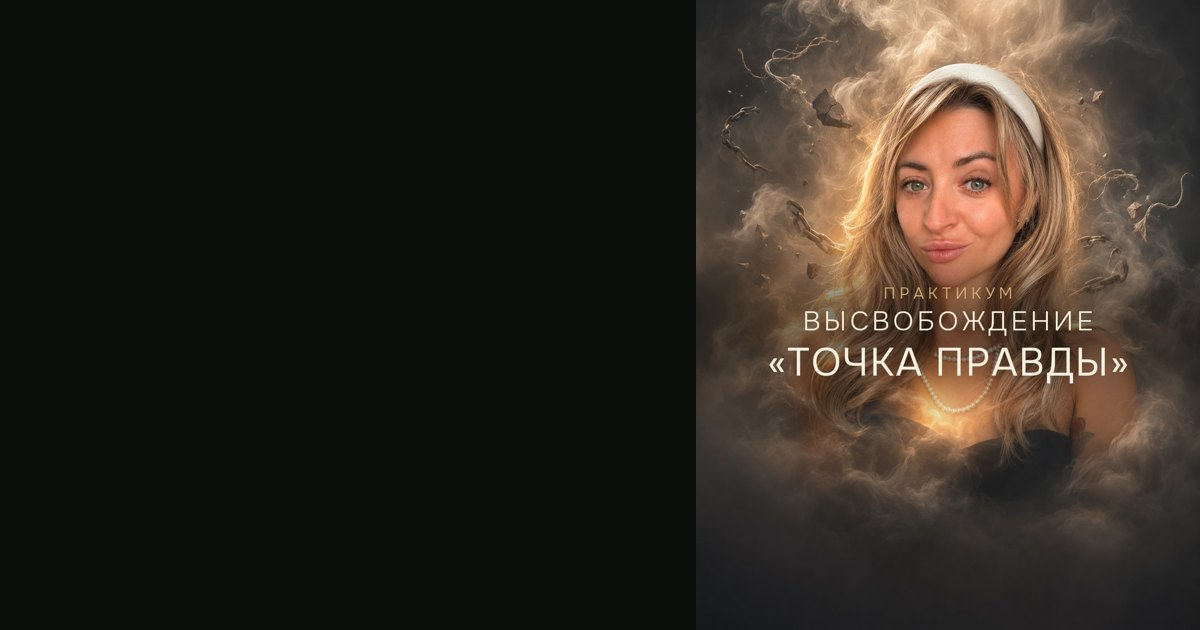
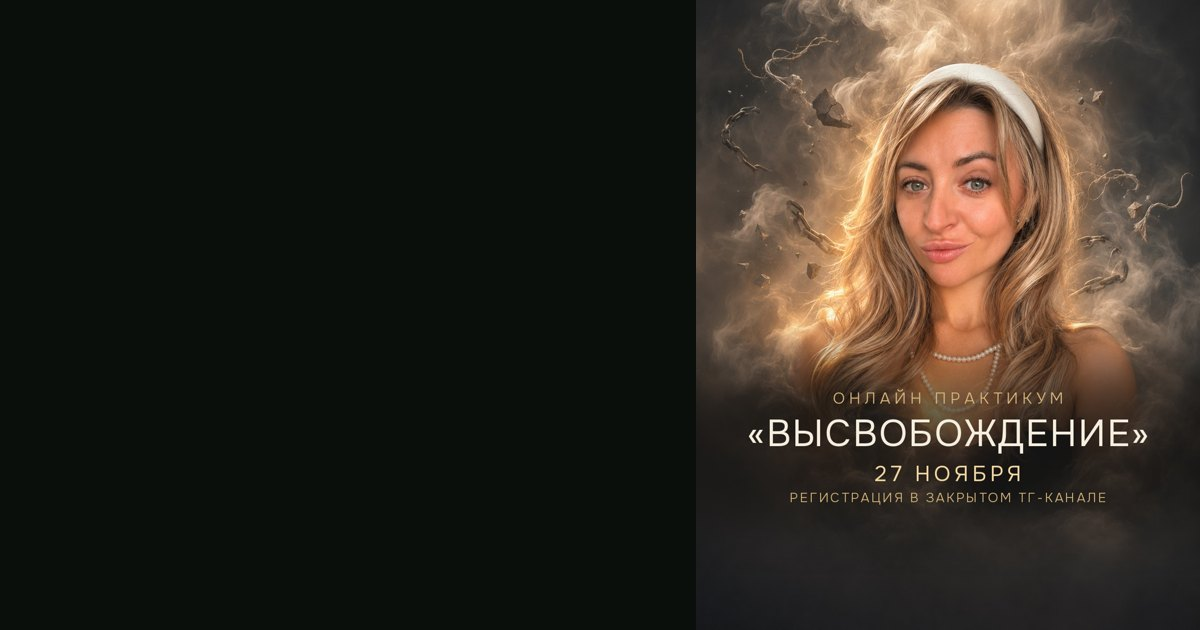
redeploy knowledge base 2026-11-19T12:23:27Z

Changed region(s): [[0.555, 0.3921, 1.0, 0.8444]]

diff --git a/tochka-pravdy/index.html b/tochka-pravdy/index.html
@@ -1,5 +1,5 @@
 <!doctype html>
-<html lang="ru"><head><meta charset="utf-8"><meta name="viewport" content="width=device-width,initial-scale=1"><title>Точка правды · онлайн практикум-высвобождение Екатерины Корягиной</title><meta name="description" content="Терапевтирующий онлайн практикум-высвобождение 19 ноября в Zoom за 990 ₽. Один день, чтобы увидеть и высвободить то, что ты носишь с собой годами излишним грузом."><link rel="canonical" href="https://katekoryagina.ru/tochka-pravdy/"><meta property="og:type" content="website"><meta property="og:url" content="https://katekoryagina.ru/tochka-pravdy/"><meta property="og:title" content="Точка правды · онлайн практикум-высвобождение Екатерины Корягиной"><meta property="og:description" content="Терапевтирующий онлайн практикум-высвобождение 19 ноября в Zoom за 990 ₽. Один день, чтобы увидеть и высвободить то, что ты носишь с собой годами излишним грузом."><meta property="og:image" content="https://katekoryagina.ru/tochka-pravdy/img/og.jpg"><meta name="twitter:card" content="summary_large_image"><link rel="preconnect" href="https://fonts.googleapis.com"><link rel="preconnect" href="https://fonts.gstatic.com" crossorigin><link href="https://fonts.googleapis.com/css2?family=Cormorant+Garamond:ital,wght@0,400;0,500;0,600;1,500&family=Manrope:wght@400;500;600;700&display=swap" rel="stylesheet"><style>
+<html lang="ru"><head><meta charset="utf-8"><meta name="viewport" content="width=device-width,initial-scale=1"><title>Точка правды · онлайн практикум-высвобождение Екатерины Корягиной</title><meta name="description" content="Онлайн практикум «Высвобождение» 27 ноября в Zoom. Зрителем без оплаты, участницей с разбором 990 ₽. Один день, чтобы увидеть и высвободить то, что ты носишь с собой годами излишним грузом."><link rel="canonical" href="https://katekoryagina.ru/tochka-pravdy/"><meta property="og:type" content="website"><meta property="og:url" content="https://katekoryagina.ru/tochka-pravdy/"><meta property="og:title" content="Точка правды · онлайн практикум-высвобождение Екатерины Корягиной"><meta property="og:description" content="Онлайн практикум «Высвобождение» 27 ноября в Zoom. Зрителем без оплаты, участницей с разбором 990 ₽. Один день, чтобы увидеть и высвободить то, что ты носишь с собой годами излишним грузом."><meta property="og:image" content="https://katekoryagina.ru/tochka-pravdy/img/og.jpg"><meta name="twitter:card" content="summary_large_image"><link rel="preconnect" href="https://fonts.googleapis.com"><link rel="preconnect" href="https://fonts.gstatic.com" crossorigin><link href="https://fonts.googleapis.com/css2?family=Cormorant+Garamond:ital,wght@0,400;0,500;0,600;1,500&family=Manrope:wght@400;500;600;700&display=swap" rel="stylesheet"><style>
 .vids{display:grid;grid-template-columns:repeat(auto-fit,minmax(300px,1fr));gap:16px;margin:18px 0 34px}.vid iframe{width:100%;aspect-ratio:16/9;border:0;background:#000;border-radius:4px}.vid figcaption{font:600 14px/1.4 Manrope;color:var(--gold2);margin-top:8px}.bonus{margin-top:26px;border:1px solid var(--gold);padding:22px 24px;max-width:680px;margin-left:auto;margin-right:auto;text-align:left}.bonus ul{list-style:none}.bonus li{padding:6px 0 6px 26px;position:relative}.bonus li:before{content:"✦";position:absolute;left:0;color:var(--gold)}
 :root{--bg:#0b0f0c;--bg2:#0f1a15;--emer:#123029;--panel:#121a16;--gold:#c9a227;--gold2:#e2c675;--txt:#efe9dc;--mut:#a9a596;--line:#26352d}
 *{box-sizing:border-box;margin:0;padding:0}
@@ -136,15 +136,16 @@ footer a{color:#b9b4a4}
 
 <section class="hero"><div class="wrap grid">
  <div class="txt">
-  <p class="kick">Терапевтирующий онлайн ПРАКТИКУМ-ВЫСВОБОЖДЕНИЕ · 19 ноября</p>
+  <p class="kick">Онлайн практикум «ВЫСВОБОЖДЕНИЕ» · 27 ноября</p>
   <h1>ТОЧКА ПРАВДЫ</h1>
   <p class="tag">Изобилие рождается изнутри. Но для него нужно место</p>
   <p class="sub">Один день, чтобы увидеть и высвободить то, что ты носишь с собой годами излишним грузом.</p>
-  <ul><li>19 ноября в Zoom, с 12:00 до 16:00 МСК</li>
-  <li>После оплаты доступ в закрытый чат участников</li>
+  <ul><li>27 ноября в Zoom, с 12:00 до 16:00 МСК</li>
+  <li>Зрителем без оплаты, участницей с разбором 990 ₽</li>
+  <li>Регистрация в закрытом Telegram-чате, практикум раз в неделю</li>
   <li>Проживаешь то, что долго сдерживала, бережно и в своём темпе</li>
   <li>Слышишь за чувствами свои настоящие желания</li></ul>
-  <div class="btns"><a class="btn" href="https://yookassa.ru/my/i/au9yLhpBG0Jv/l" target="_blank" rel="noopener" data-goal="hero_pay">Забронировать место за 990 ₽</a><a class="btn ghost" href="#programma">Программа</a></div>
+  <div class="btns"><a class="btn" href="https://t.me/koryaginakate_bot?start=vysvobozhdenie" target="_blank" rel="noopener" data-goal="hero_pay">Стать участницей · 990 ₽</a><a class="btn ghost" href="https://t.me/koryaginakate_bot?start=vysvobozhdenie" target="_blank" rel="noopener" data-goal="hero_free">Стать зрителем</a></div>
  </div>
  <figure><img src="img/hero.jpg" alt="Екатерина Корягина" fetchpriority="high"></figure>
 </div></section>
@@ -176,13 +177,14 @@ footer a{color:#b9b4a4}
 
 <section class="mm" id="mesto"><div class="wrap">
  <p class="kick">Участие</p>
- <p class="lead">Один день, после которого ты слышишь себя и знаешь свой следующий шаг. И цена, при которой думать дольше, чем длится сам практикум, просто смешно.</p>
+ <p class="lead">Один день, после которого ты слышишь себя и знаешь свой следующий шаг. Смотреть можно без оплаты. Пройти работу самой и получить личный разбор стоит 990 ₽.</p>
  <div class="price-box">
-  <p class="kick">Практикум Точка правды · 19 ноября, Zoom, 12:00-16:00 МСК</p>
+  <p class="kick">Участница с разбором · 27 ноября, Zoom, 12:00-16:00 МСК</p>
   <div class="pr">990 ₽</div>
   <p class="kick" style="text-align:left;margin-top:18px">Что входит</p>
-  <ul><li>Онлайн групповая терапия с разборами участников: 19 ноября в Zoom, с 12:00 до 16:00 МСК</li><li>Закрытый чат участников в Telegram</li></ul>
-  <a class="btn" href="https://yookassa.ru/my/i/au9yLhpBG0Jv/l" target="_blank" rel="noopener" data-goal="price_pay">Забронировать место</a>
+  <ul><li>Онлайн групповая терапия: 27 ноября в Zoom, с 12:00 до 16:00 МСК</li><li>Личный разбор твоего запроса и практическая работа по высвобождению подавленных чувств</li><li>Закрытый чат практикума в Telegram</li></ul>
+  <a class="btn" href="https://t.me/koryaginakate_bot?start=vysvobozhdenie" target="_blank" rel="noopener" data-goal="price_pay">Стать участницей</a>
+  <p style="margin-top:14px">Хочешь просто посмотреть? <a class="btn ghost" href="https://t.me/koryaginakate_bot?start=vysvobozhdenie" target="_blank" rel="noopener" data-goal="price_free">Стать зрителем без оплаты</a></p>
   <div class="res"><p class="kick">Результат</p><p>Лёгкость и высвобождение от самой главной причины, которая сдерживает твою внутреннюю свободу, уверенность, сексуальность.</p></div>
  </div>
 </div></section>
@@ -200,11 +202,11 @@ footer a{color:#b9b4a4}
 </div></section>
 
 <section><div class="wrap">
- <p class="kick">Вопросы</p><h2>Частые <em>вопросы</em></h2><div class="qa"><h4>Мне придётся раскрываться через силу?</h4><p>Нет. Всё идёт бережно и в твоём темпе. Ты сама решаешь, что проживать и чем делиться.</p></div><div class="qa"><h4>Почему так недорого?</h4><p>Я хочу, чтобы в этот опыт вошёл каждый, кто в моём поле и готов к нему. 990 ₽ это порог входа для тех, кто выбирает себя.</p></div><div class="qa"><h4>Что нужно, чтобы прийти?</h4><p>Готовность честно посмотреть на себя и выйти из позиции жертвы. Всё остальное я дам на практикуме.</p></div><div class="qa"><h4>Как проходит практикум?</h4><p>Это онлайн групповая терапия с разборами участников в Zoom 19 ноября с 12:00 до 16:00 по Москве. После оплаты ты получаешь доступ в закрытый чат участников в Telegram.</p></div>
+ <p class="kick">Вопросы</p><h2>Частые <em>вопросы</em></h2><div class="qa"><h4>Мне придётся раскрываться через силу?</h4><p>Нет. Всё идёт бережно и в твоём темпе. Ты сама решаешь, что проживать и чем делиться.</p></div><div class="qa"><h4>Почему так недорого?</h4><p>Я хочу, чтобы в этот опыт вошёл каждый, кто в моём поле и готов к нему. 990 ₽ это порог входа для тех, кто выбирает себя.</p></div><div class="qa"><h4>Что нужно, чтобы прийти?</h4><p>Готовность честно посмотреть на себя и выйти из позиции жертвы. Всё остальное я дам на практикуме.</p></div><div class="qa"><h4>Как проходит практикум?</h4><p>Это онлайн групповая терапия в Zoom 27 ноября с 12:00 до 16:00 по Москве. Регистрация через бота: короткая анкета, и ты получаешь ссылку в закрытый чат практикума в Telegram. Практикум проходит раз в неделю.</p></div><div class="qa"><h4>Можно просто посмотреть?</h4><p>Да. Зрителем можно без оплаты: ты смотришь работу и проживаешь её вместе с группой. Участницы за 990 ₽ проходят практическую работу и личный разбор.</p></div>
 </div></section>
 
 <footer><div class="wrap"><div class="links"><a href="../rezonans/oferta/">Договор оферты</a><a href="../rezonans/politika/">Политика конфиденциальности и обработки персональных данных</a><a href="../rezonans/soglasie/">Согласие на обработку персональных данных</a><a href="../rezonans/soglasie-rassylka/">Согласие на получение информационной и рекламной рассылки</a><a href="../rezonans/soglasie-info/">Согласие на получение информационной рассылки и рекламных материалов</a><a href="../rezonans/soglasie-otzyvy/">Согласие на публикацию отзывов</a></div><p>ИП Корягина Екатерина Владимировна · ИНН 471114096938 · ОГРНИП 320774600532285</p><p>photokoryagina@gmail.com · <a href="https://t.me/nastavnikkate">@nastavnikkate</a> · © 2026 Екатерина Корягина</p></div></footer>
-<div class="dock"><a class="btn" href="https://yookassa.ru/my/i/au9yLhpBG0Jv/l" target="_blank" rel="noopener" data-goal="dock_pay">Забронировать место за 990 ₽</a></div>
+<div class="dock"><a class="btn" href="https://t.me/koryaginakate_bot?start=vysvobozhdenie" target="_blank" rel="noopener" data-goal="dock_pay">Записаться на 27 ноября</a></div>
 
 <script>
 document.addEventListener('click',function(e){var a=e.target.closest&&e.target.closest('a[data-goal]');
